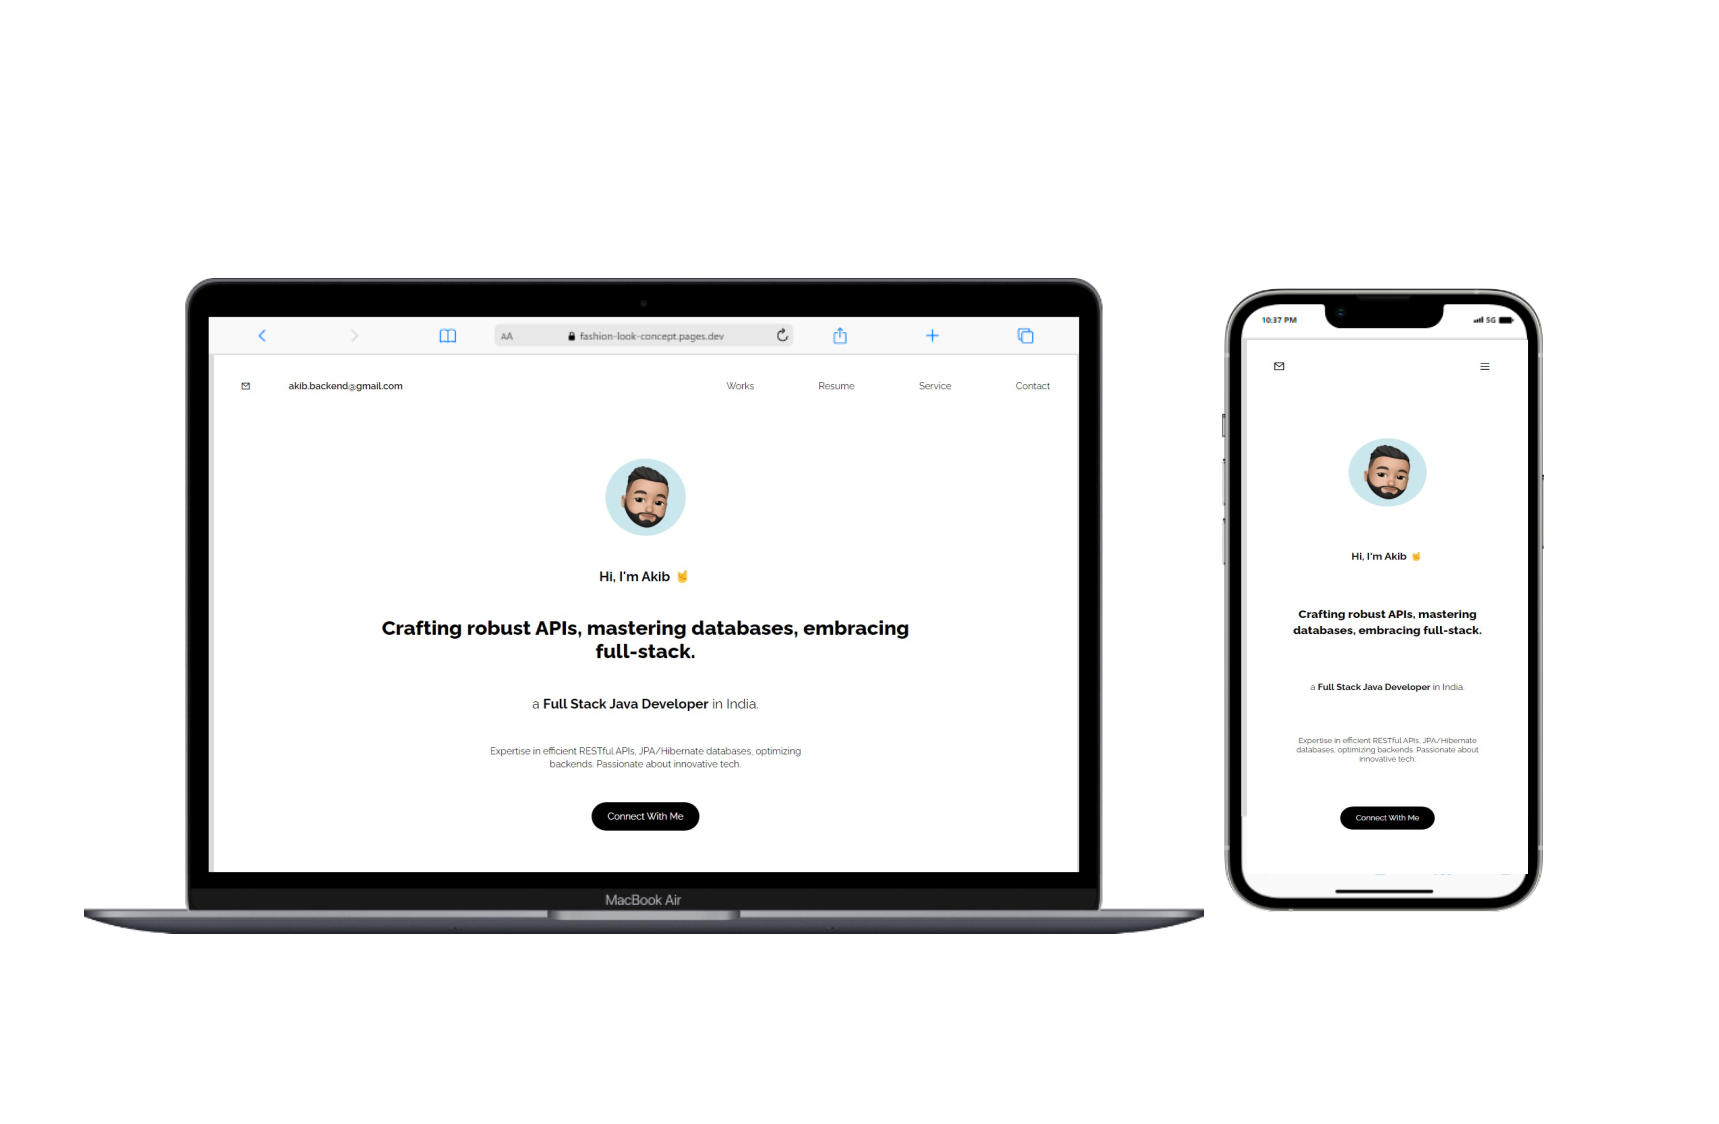
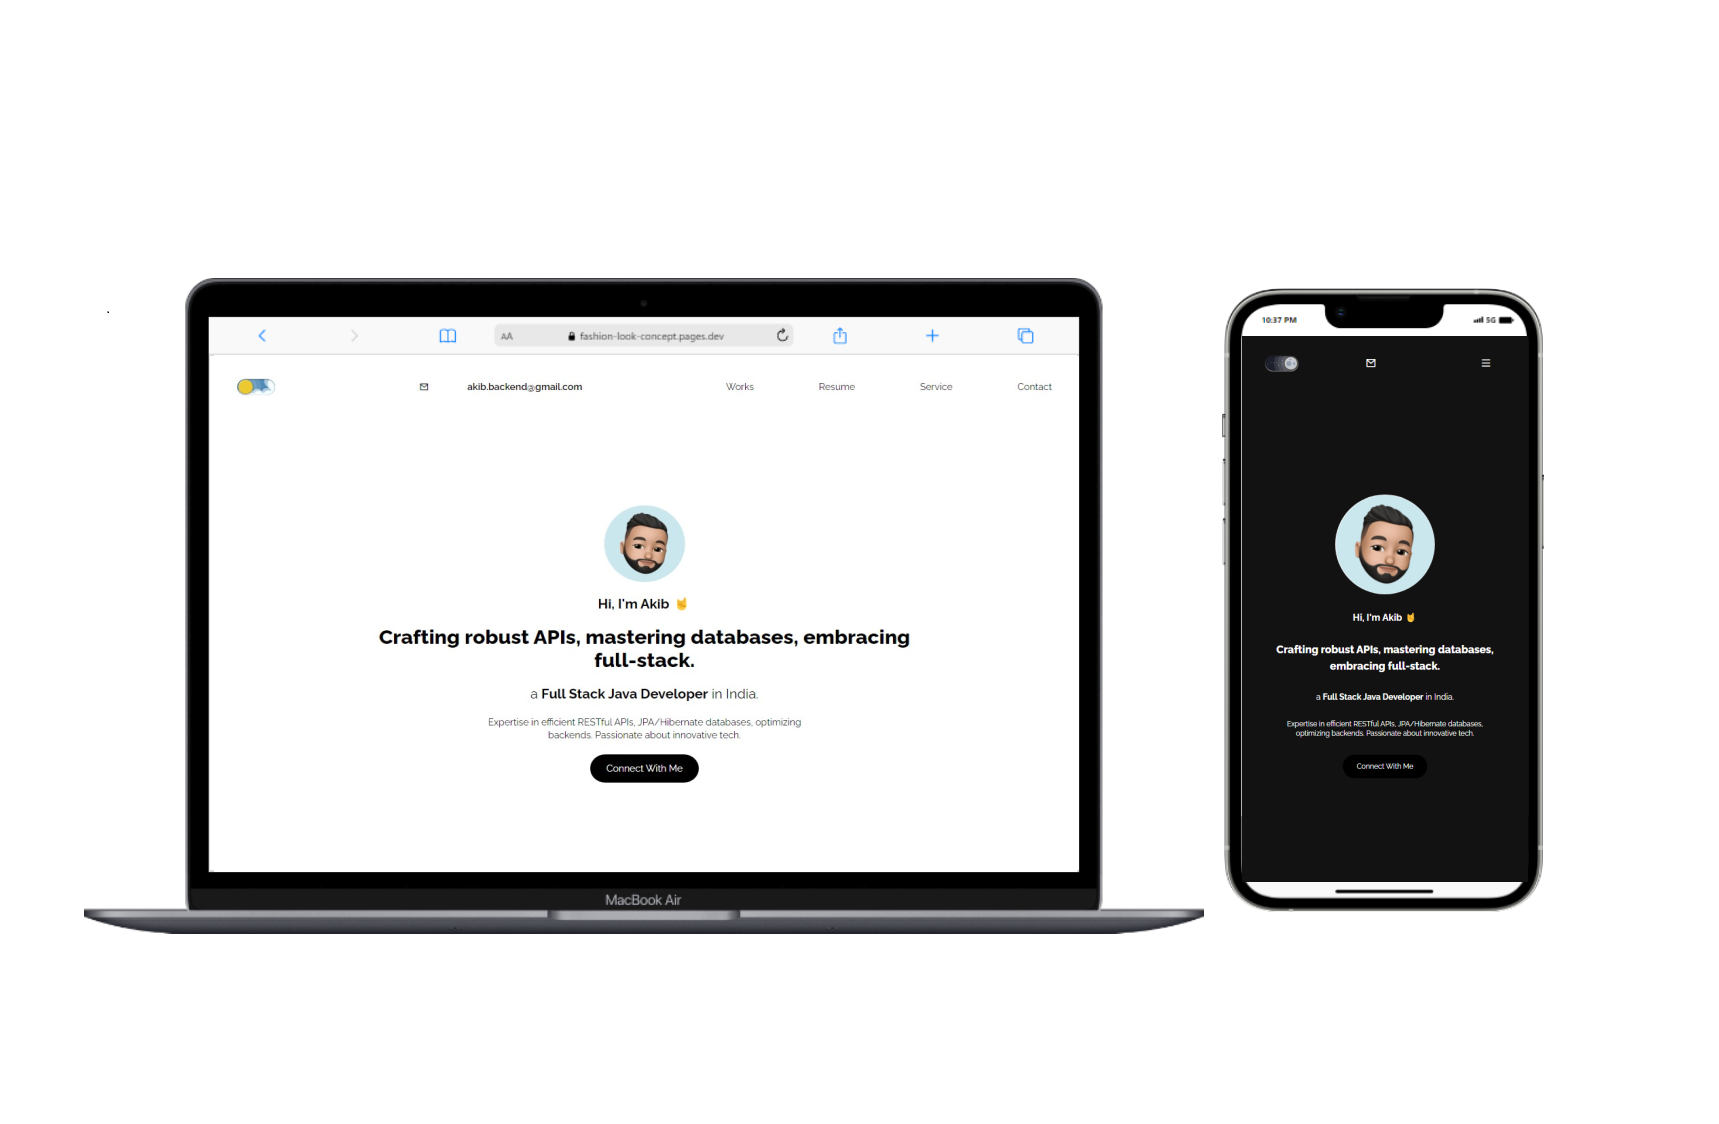
tailwind

diff --git a/src/constants/index.js b/src/constants/index.js
@@ -372,7 +372,7 @@ const projects = [
 	{
 		name: 'Simple Portfolio',
 		description:
-			'Embrace the future of web design with this tailwind Portfolio template, leveraging the flexibility of Tailwind CSS for a stunning, responsive showcase. Perfect for developers and creatives alike, this template offers rapid customization and a mobile-first approach.',
+			"Introducing a Tailwind Portfolio template, designed for developers and creatives. With striking responsiveness and a captivating dark mode switch, it's the ultimate choice for a polished showcase.",
 		tags: [
 			{
 				name: 'tailwind',

diff --git a/src/components/Works.jsx b/src/components/Works.jsx
@@ -44,11 +44,11 @@ const ProjectCard = ({ index, name, description, tags, image, source_code_link, 
 						</div>
 						<div
 							onClick={handleProjectUrlClick}
-							className="violet-gradient w-10 h-10 rounded-full p-0 flex justify-center items-center cursor-pointer">
+							className="w-10 h-10 rounded-full p-0 flex justify-center items-center cursor-pointer">
 							<img
 								src={preview}
 								alt="Preview"
-								className="w-1/2 h-1/2 object-contain"
+								className="object-contain"
 							/>
 						</div>
 					</div>
